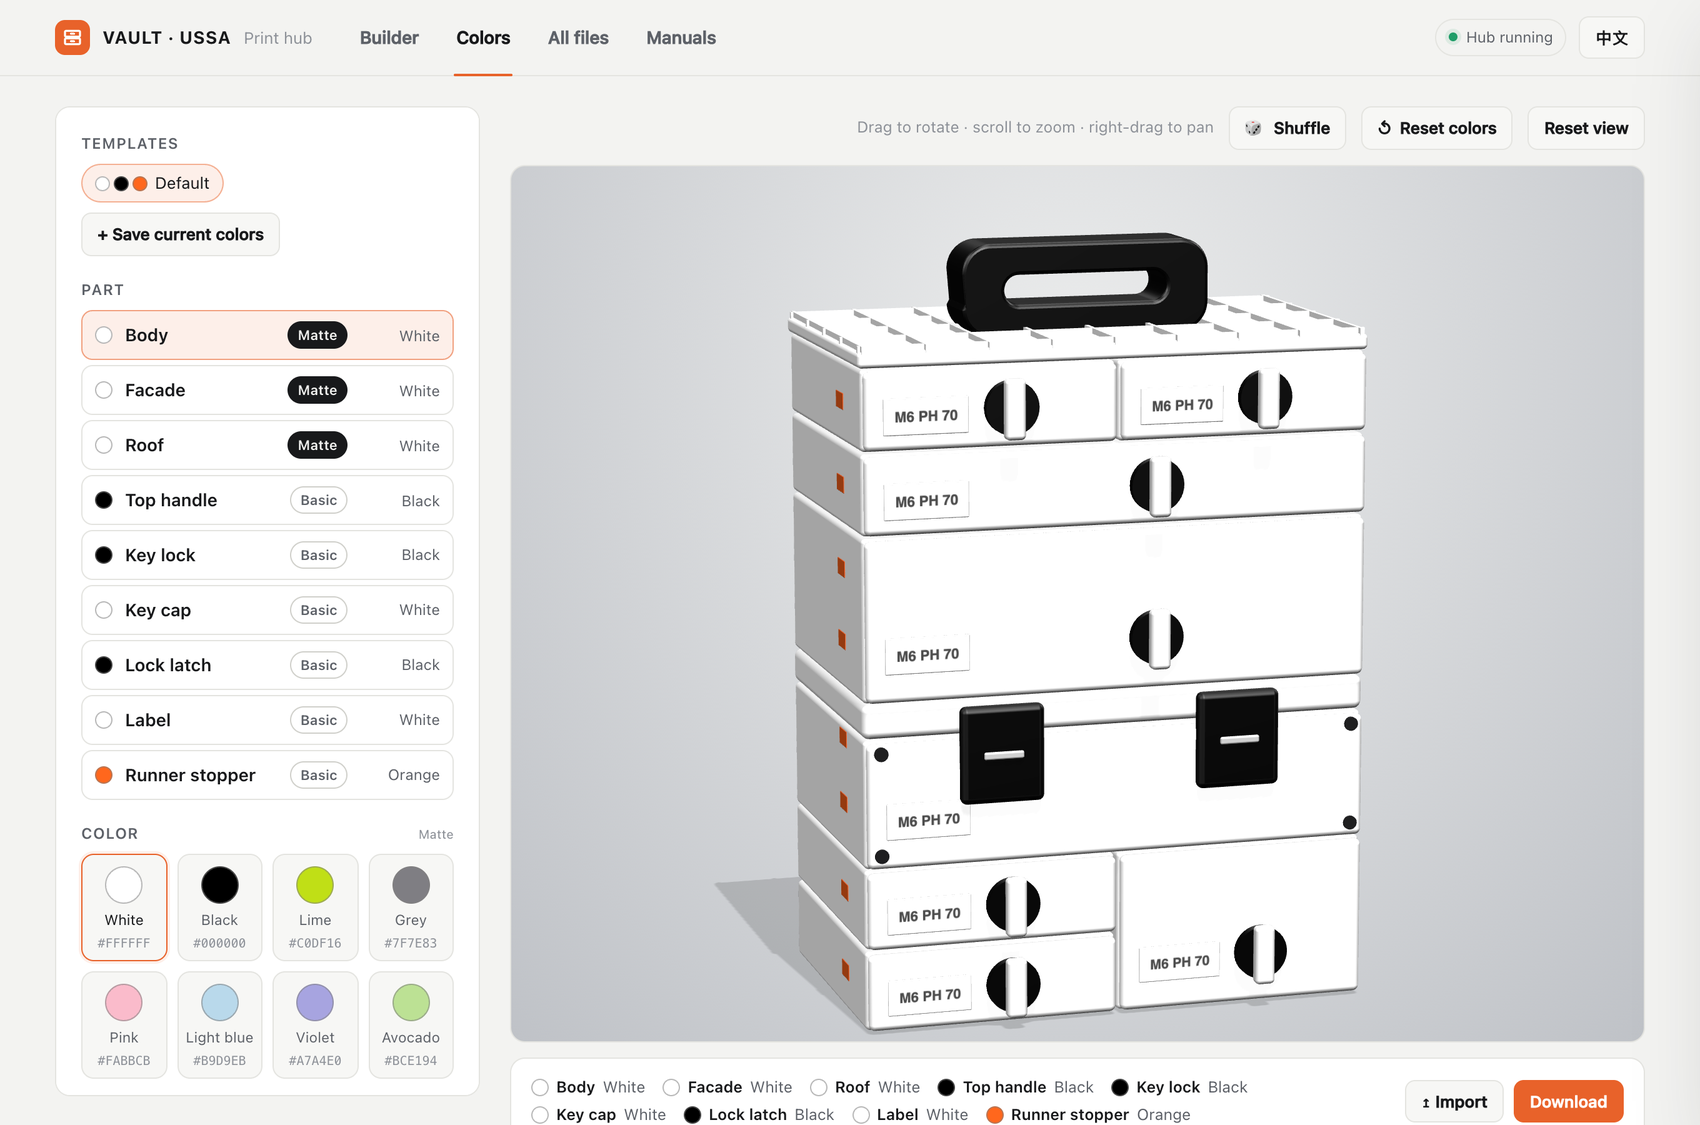
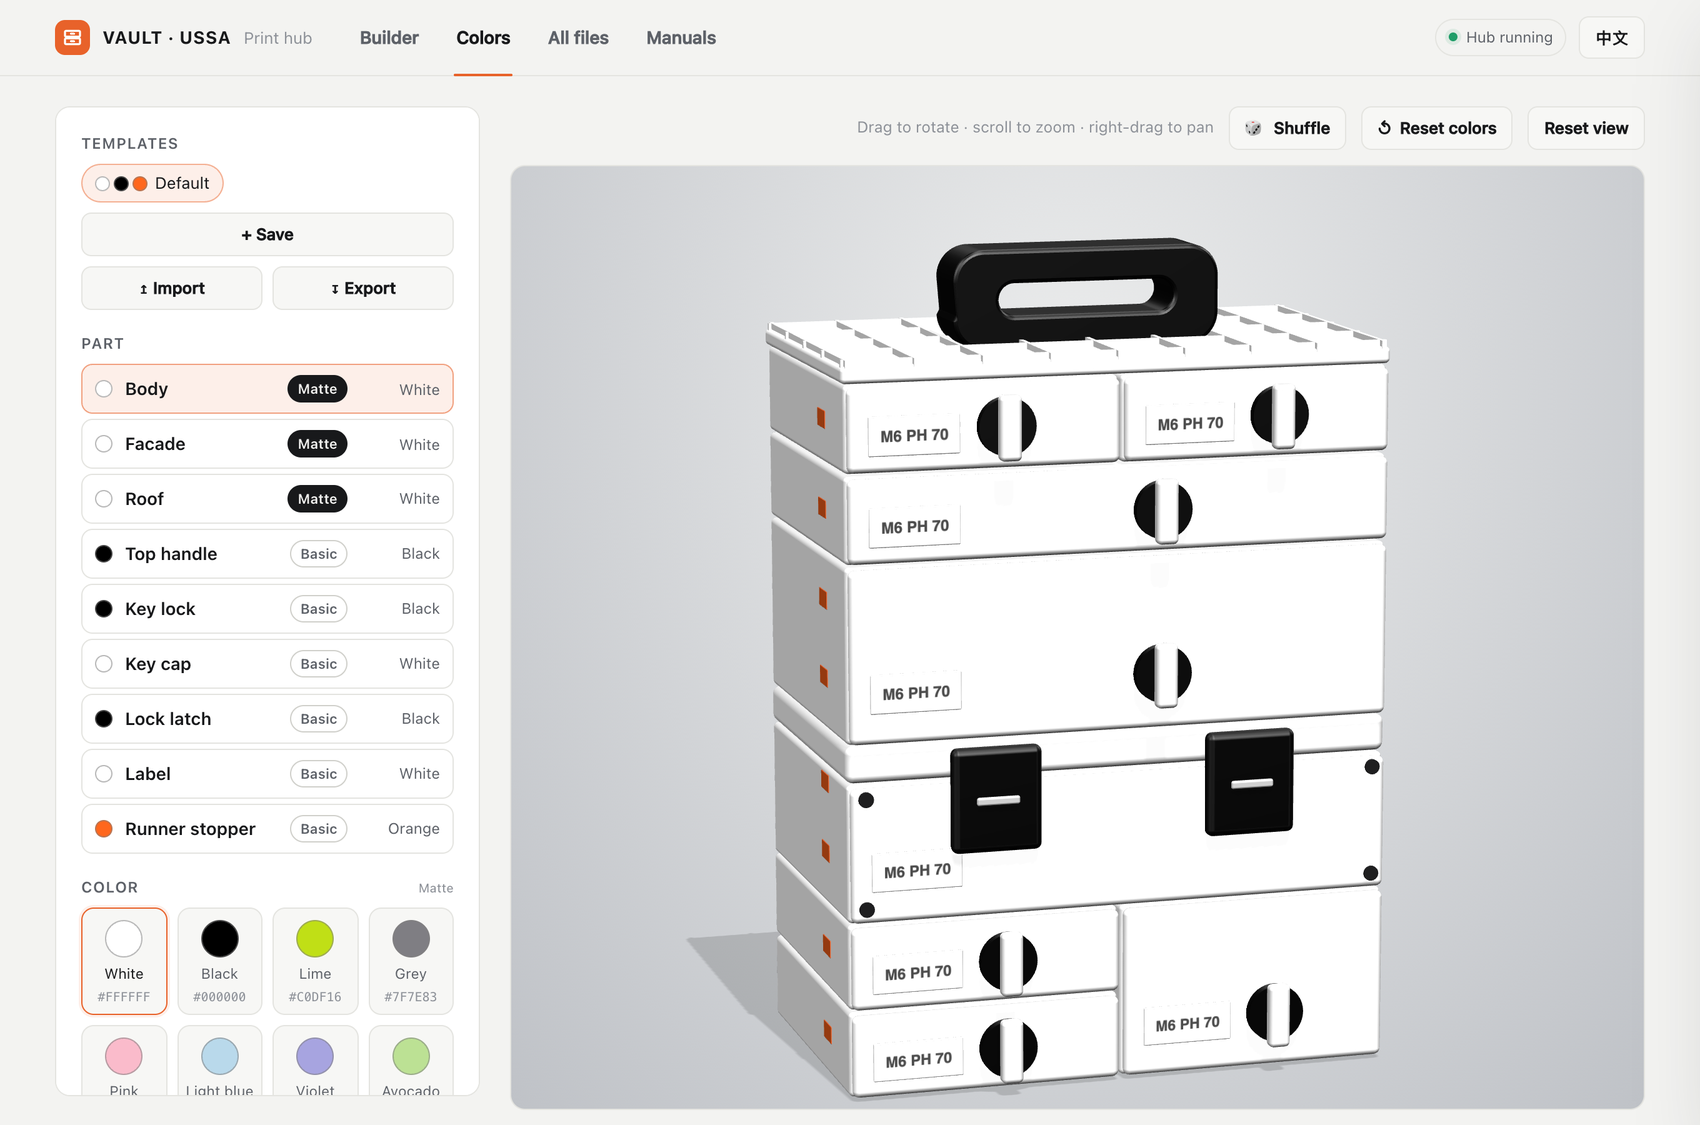
Colors tab: move Save/Import/Export into Templates, remove summary bar; Builder tags show the picked colors; tag order

Changed region(s): [[0.2806, 0.1867, 0.9665, 1.0], [0.0312, 0.2489, 0.2806, 0.9644], [0.0624, 0.1867, 0.1871, 0.2178]]

diff --git a/index.html b/index.html
@@ -242,10 +242,12 @@ button.meta:hover .nm { color: var(--accent); }
 .badge.sup { background: var(--warn-soft); color: var(--warn); }
 .badge.pcs { background: var(--accent-soft); color: var(--accent); }
 .badge.muted { border-color: var(--line); color: var(--faint); }
+.badge.mat { display: inline-flex; align-items: center; gap: 5px; }
+.sw.sm { width: 9px; height: 9px; border-color: rgba(128, 128, 128, .65); }
 .badge.mat.matte { background: var(--text); color: var(--bg); }
 .badge.mat.basic { border-color: var(--line-strong); color: var(--muted); }
 .badge.mat.tpu { border: 1px dashed var(--line-strong); color: var(--muted); }
-.mat-sm { display: none; align-self: flex-start; margin-top: 3px; }
+.badge.mat.mat-sm { display: none; align-self: flex-start; margin-top: 3px; }
 .facts .badge { margin-left: 6px; }
 .qty { font-weight: 700; font-variant-numeric: tabular-nums; text-align: right; }
 .qty.na { color: var(--faint); font-weight: 500; font-size: 12px; }
@@ -365,7 +367,7 @@ button.thumb:hover { border-color: var(--line-strong); }
 .col-bar { display: flex; align-items: center; gap: 12px; flex-wrap: wrap; }
 .col-hint { flex: 1; color: var(--faint); font-size: 12.5px; text-align: right; }
 .col-stage {
-  position: relative; height: min(78vh, 820px); min-height: 420px; overflow: hidden;
+  position: relative; height: min(84vh, 880px); min-height: 420px; overflow: hidden;
   border: 1px solid var(--line); border-radius: var(--radius);
   background: radial-gradient(ellipse at 50% 25%, #eceded, #bfc2c7);
 }
@@ -374,18 +376,13 @@ button.thumb:hover { border-color: var(--line-strong); }
 .col-msg { position: absolute; inset: 0; display: grid; place-items: center; z-index: 3; padding: 24px; text-align: center; color: #2a2d31; font-weight: 600; }
 .col-msg .box { background: rgba(255, 255, 255, .92); border-radius: 12px; padding: 16px 20px; max-width: 420px; font-weight: 500; }
 .col-msg h3 { margin: 0 0 6px; font-size: 15px; }
-.col-sum { background: var(--panel); border: 1px solid var(--line); border-radius: var(--radius); padding: 14px 16px; display: grid; grid-template-columns: minmax(0, 1fr) auto; gap: 12px 16px; align-items: center; }
-.col-sum .acts { display: flex; gap: 8px; }
-.col-sum .picks { display: flex; flex-direction: column; gap: 6px; font-size: 12.5px; color: var(--muted); min-width: 0; }
-.col-sum .pk { display: flex; flex-wrap: wrap; gap: 4px 14px; align-items: center; }
-.col-sum .pk > em { font-style: normal; font-weight: 650; color: var(--text); min-width: 78px; }
-.col-sum .picks span { display: inline-flex; align-items: center; gap: 6px; white-space: nowrap; }
-.col-sum .picks b { color: var(--text); font-weight: 600; }
 .col-tip { position: absolute; left: 0; top: 0; z-index: 4; pointer-events: none; background: rgba(24, 25, 27, .9); color: #fff; font-size: 12px; font-weight: 600; padding: 4px 9px; border-radius: 7px; white-space: nowrap; }
 .col-hint { white-space: nowrap; overflow: hidden; text-overflow: ellipsis; min-width: 0; }
 .tpl { display: flex; flex-wrap: wrap; gap: 6px; margin-bottom: 8px; }
 .tplchip { display: inline-flex; align-items: center; border: 1px solid var(--line); border-radius: 999px; overflow: hidden; }
 .tplchip button { border: 0; background: none; padding: 5px 10px; font-size: 13px; color: var(--muted); }
+.tplact { display: flex; gap: 8px; margin-top: 8px; }
+.tplact .btn { flex: 1; justify-content: center; }
 .tplchip button { display: inline-flex; align-items: center; gap: 6px; }
 .tplchip .dots { display: inline-flex; gap: 3px; }
 .tplchip .sw { width: 12px; height: 12px; }
@@ -417,8 +414,7 @@ button.thumb:hover { border-color: var(--line-strong); }
 @media (max-width: 960px) {
   .colors { grid-template-columns: 1fr; }
   .col-main { order: -1; }
-  .col-sum { grid-template-columns: 1fr; }
-  .builder, .manuals { grid-template-columns: 1fr; }
+    .builder, .manuals { grid-template-columns: 1fr; }
   .config, .doclist { position: static; max-height: none; }
   .brand-sub { display: none; }
 }
@@ -432,7 +428,7 @@ button.thumb:hover { border-color: var(--line-strong); }
   .row, .grp .row { grid-template-columns: 22px 40px minmax(0, 1fr) 36px auto; padding-left: 12px; gap: 8px; }
   .thumb { width: 40px; height: 40px; }
   .row .badges, .row .sz { display: none; }
-  .mat-sm { display: inline-block; }
+  .badge.mat.mat-sm { display: inline-flex; }
   .specs { grid-template-columns: 1fr 1fr; }
   .col-hint { display: none; }
   .col-bar .btn { flex: 1; justify-content: center; }
@@ -490,7 +486,6 @@ button.thumb:hover { border-color: var(--line-strong); }
         <div class="col-stage" id="col-stage">
           <div class="col-msg" id="col-msg" hidden></div>
         </div>
-        <div class="col-sum" id="col-sum"></div>
       </div>
     </div>
   </section>
@@ -578,8 +573,8 @@ const store = {
 const I18N = {
   en: {
     langBtn: '中文', subtitle: 'Print hub', tabBuild: 'Builder', tabFiles: 'All files', tabManuals: 'Manuals', tabColors: 'Colors',
-    colPart: 'Part', colColor: 'Color', colShuffle: 'Shuffle', colReset: 'Reset colors', colTpl: 'Templates', colTplDefault: 'Default', colTplSave: '+ Save current colors', colTplExists: 'That color combination is already saved', colTplSavedPlain: 'Template saved', colTplLoaded: n => `Loaded ${n}`, colTplDel: 'Delete template', colNo3d: 'The 3D view could not start', colAll: n => `Use for all Matte parts`,
-    colDownload: 'Download', colImport: 'Import', colImportDone: n => `Imported ${n} colors`, colImportFail: 'No color picks found in that file',
+    colPart: 'Part', colColor: 'Color', colShuffle: 'Shuffle', colReset: 'Reset colors', colTpl: 'Templates', colTplDefault: 'Default', colTplSave: 'Save', colTplExists: 'That color combination is already saved', colTplSavedPlain: 'Template saved', colTplLoaded: n => `Loaded ${n}`, colTplDel: 'Delete template', colNo3d: 'The 3D view could not start', colAll: n => `Use for all Matte parts`,
+    colDownload: 'Export', colImport: 'Import', colImportDone: n => `Imported ${n} colors`, colImportFail: 'No color picks found in that file',
     colNote: 'On-screen colors are approximate. Check against a physical swatch before printing.',
     role_body: 'Body', role_facade: 'Facade', role_roof: 'Roof', role_handle: 'Top handle', role_label: 'Label', role_stopper: 'Runner stopper', role_key: 'Key lock', role_keycap: 'Key cap', role_hinge: 'Hinge', role_lock: 'Lock latch',
     c_white: 'White', c_black: 'Black', c_lime: 'Lime', c_grey: 'Grey', c_pink: 'Pink', c_lightblue: 'Light blue', c_violet: 'Violet', c_avocado: 'Avocado', c_orange: 'Orange', c_red: 'Red', c_yellow: 'Yellow', c_green: 'Green', c_blue: 'Blue', c_darkblue: 'Dark Blue', c_beige: 'Beige', c_brown: 'Brown', c_bluegrey: 'Blue Grey', c_darkgreen: 'Dark Green',
@@ -618,8 +613,8 @@ const I18N = {
   },
   zh: {
     langBtn: 'English', subtitle: '打印控制台', tabBuild: '配置清单', tabFiles: '全部文件', tabManuals: '说明书', tabColors: '配色',
-    colPart: '零件', colColor: '颜色', colShuffle: '随机配色', colReset: '重置配色', colTpl: '配色模板', colTplDefault: '默认', colTplSave: '+ 保存当前配色', colTplExists: '这个配色组合已经保存过了', colTplSavedPlain: '模板已保存', colTplLoaded: n => `已载入 ${n}`, colTplDel: '删除模板', colNo3d: '无法启动 3D 视图', colAll: n => `所有哑光零件用同一颜色`,
-    colDownload: '下载', colImport: '导入', colImportDone: n => `已导入 ${n} 项配色`, colImportFail: '该文件中没有可识别的配色',
+    colPart: '零件', colColor: '颜色', colShuffle: '随机配色', colReset: '重置配色', colTpl: '配色模板', colTplDefault: '默认', colTplSave: '保存', colTplExists: '这个配色组合已经保存过了', colTplSavedPlain: '模板已保存', colTplLoaded: n => `已载入 ${n}`, colTplDel: '删除模板', colNo3d: '无法启动 3D 视图', colAll: n => `所有哑光零件用同一颜色`,
+    colDownload: '导出', colImport: '导入', colImportDone: n => `已导入 ${n} 项配色`, colImportFail: '该文件中没有可识别的配色',
     colNote: '屏幕上的颜色仅供参考,打印前请对照实物色卡确认。',
     role_body: '主体', role_facade: '前面板', role_roof: '顶盖', role_handle: '顶部提手', role_label: '标签', role_stopper: '止动块', role_key: '旋转锁', role_keycap: '旋钮手柄', role_hinge: '铰链', role_lock: '锁扣',
     c_white: '白色', c_black: '黑色', c_lime: '黄绿色', c_grey: '灰色', c_pink: '粉色', c_lightblue: '浅蓝色', c_violet: '紫罗兰', c_avocado: '牛油果绿', c_orange: '橙色', c_red: '红色', c_yellow: '黄色', c_green: '绿色', c_blue: '蓝色', c_darkblue: '深蓝色', c_beige: '米色', c_brown: '棕色', c_bluegrey: '蓝灰色', c_darkgreen: '深绿色',
@@ -901,14 +896,32 @@ function material(f) {
   if (/Module|Box|Back Panel|Roof|Baseplate|Divider|Facade/i.test(f.name) || /\/Facades?\//.test(f.p)) return 'matte';
   return '';
 }
-const matBadge = (m, cls = '') => m ? `<span class="badge mat ${m}${cls}" title="${esc(t(m + 'Tip'))}">${esc(t(m))}</span>` : '';
+// Which part of the Colors tab a file belongs to, so its Matte / Basic tag can show the color picked there.
+// Matte parts without a role of their own follow the body color; basic parts without a role (runners, springs, hinges...) show no color.
+function colorRole(f) {
+  const m = material(f), n = f.name;
+  if (m === 'matte') return /Facade/i.test(n) || /\/Facades?\//.test(f.p) ? 'facade' : /Roof/i.test(n) ? 'roof' : 'body';
+  if (m !== 'basic') return '';
+  if (/Key Cap/i.test(n)) return 'keycap';
+  if (/Key/i.test(n)) return 'key';
+  if (/Handle/i.test(n)) return 'handle';
+  if (/Label/i.test(n)) return 'label';
+  if (/Runner Stopper/i.test(n)) return 'stopper';
+  if (/LOCK /i.test(n) || /\/Locks\//.test(f.p)) return 'lock';
+  return '';
+}
+const matBadge = (m, cls = '', f = null) => {
+  if (!m) return '';
+  const role = f ? colorRole(f) : '', c = role ? colorOf(role) : null;
+  return `<span class="badge mat ${m}${cls}" title="${esc(t(m + 'Tip') + (c ? ' · ' + colorName(c) : ''))}">${c ? `<i class="sw sm" style="background:${c.hex}"></i>` : ''}${esc(t(m))}</span>`;
+};
 
 function badges(f, item = {}) {
   const b = [];
-  if (item.mat) b.push(matBadge(material(f)));
   if (/turn on supports/i.test(f.name)) b.push(`<span class="badge sup">${t('supports')}</span>`);
   if (item.pcs) b.push(`<span class="badge pcs">${t('pcs', item.pcs)}</span>`);
   if (!isModel(f)) b.push(`<span class="badge muted">${ext(f).toUpperCase()}</span>`);
+  if (item.mat) b.push(matBadge(material(f), '', f));   // the material tag comes last
   return b.join('');
 }
 
@@ -923,7 +936,7 @@ function fileRow(f, item = null) {
   return `<li class="row${done ? ' done' : ''}" data-path="${esc(f.p)}">
     ${canCheck ? `<label class="ck"><input type="checkbox" data-act="check"${done ? ' checked' : ''} aria-label="${esc(t('markPrinted'))}"><span></span></label>` : '<span></span>'}
     ${thumb(f, isModel(f) ? ICON.cube : ICON.eye)}
-    <button class="meta" data-act="open" title="${esc(f.p)}"><span class="nm">${esc(prettyName(f.name))}</span><span class="pt">${esc(f.dir)}</span>${matBadge(material(f), ' mat-sm')}</button>
+    <button class="meta" data-act="open" title="${esc(f.p)}"><span class="nm">${esc(prettyName(f.name))}</span><span class="pt">${esc(f.dir)}</span>${matBadge(material(f), ' mat-sm', f)}</button>
     <span class="badges">${badges(f, { ...item, mat: true })}</span>
     ${item ? qty : ''}
     <span class="sz">${fmtSize(f.s)}</span>
@@ -1127,6 +1140,7 @@ function showTab(name) {
   history.replaceState(null, '', '#' + name);
   $$('.tab').forEach(b => b.setAttribute('aria-selected', String(b.dataset.tab === name)));
   $$('.view').forEach(v => { v.hidden = v.id !== 'view-' + name; });
+  if (name === 'build') renderBuilder();   // the Matte / Basic tags show the colors picked in the Colors tab
   if (name === 'manuals') renderManuals();
   if (name === 'files') renderFiles();
   if (name === 'colors') renderColors();
@@ -1508,7 +1522,7 @@ function renderColors() {
   const role = colorUI.role, finish = ROLE_FINISH[role];
   $('#col-config').innerHTML =
     field(t('colTpl'), `<div class="tpl"><span class="tplchip"><button type="button" data-ctpl="default" aria-pressed="${matchesTemplate({ choice: {} })}">${templateLabel({ choice: {} }, t('colTplDefault'))}</button></span>${templates().map((x, i) =>
-      `<span class="tplchip"><button type="button" data-ctpl="${i}" aria-pressed="${matchesTemplate(x)}">${templateLabel(x, '')}</button><button type="button" class="x" data-ctpl-del="${i}" title="${esc(t('colTplDel'))}" aria-label="${esc(t('colTplDel'))}">×</button></span>`).join('')}</div><button type="button" class="btn" data-cact="save">${esc(t('colTplSave'))}</button>`) +
+      `<span class="tplchip"><button type="button" data-ctpl="${i}" aria-pressed="${matchesTemplate(x)}">${templateLabel(x, '')}</button><button type="button" class="x" data-ctpl-del="${i}" title="${esc(t('colTplDel'))}" aria-label="${esc(t('colTplDel'))}">×</button></span>`).join('')}</div><div class="tplact"><button type="button" class="btn" data-cact="save">+ ${esc(t('colTplSave'))}</button></div><div class="tplact"><button type="button" class="btn" data-cact="import">↥ ${esc(t('colImport'))}</button><button type="button" class="btn" data-cact="download">↧ ${esc(t('colDownload'))}</button></div>`) +
     field(t('colPart'), `<div class="plist">${ROLES.map(r => {
       const c = colorOf(r);
       return `<button type="button" class="prow" data-crole="${r}" aria-pressed="${r === role}"><i class="sw" style="background:${c.hex}"></i><span class="nm">${esc(t('role_' + r))}</span><span class="badge mat ${ROLE_FINISH[r]}">${esc(t(ROLE_FINISH[r]))}</span><span class="cn">${esc(colorName(c))}</span></button>`;
@@ -1517,10 +1531,6 @@ function renderColors() {
       `<button type="button" data-ccolor="${c.id}" aria-pressed="${c.id === colorOf(role).id}"><i class="sw" style="background:${c.hex}"></i>${esc(colorName(c))}<small>${c.hex}</small></button>`).join('')}</div>`, t(finish)) +
     (finish === 'matte' ? `<button type="button" class="btn" data-cact="all">${esc(t('colAll'))}</button>` : '') +
     `<p class="col-note">${esc(t('colNote'))}</p>`;
-  $('#col-sum').innerHTML = `<div class="picks"><div class="pk">${ROLES.map(r => {
-    const c = colorOf(r);
-    return `<span><i class="sw" style="background:${c.hex}"></i><b>${esc(t('role_' + r))}</b> ${esc(colorName(c))}</span>`;
-  }).join('')}</div></div><div class="acts"><button class="btn" data-cact="import"><span>↥ ${esc(t('colImport'))}</span></button> <button class="btn primary" data-cact="download"><span>${esc(t('colDownload'))}</span></button></div>`;
   buildColors();
 }
 

diff --git a/README.md b/README.md
@@ -23,7 +23,7 @@ Pick a unit and the hub lists every file you need, so nothing gets missed.
 - **Options** – lock style, roof for the top unit (none / bowl / grid / table / under-table mount), top handle, dividers, Gridfinity baseplate, locks per unit.
 - **Spec strip** – outer and inside dimensions, Gridfinity grid size, and estimated print time and filament weight (published figures, where available).
 - **Parts list** – grouped into Body, Slides / latch / lock, Hinges & rods, Lock set and Hardware, with a thumbnail, quantity and file size for each part.
-- **Filament finish** – every part is tagged **Matte**, **Basic** or **TPU** (the suggested filament), and the Builder header counts how many of each you need so you can plan filament swaps. The tag is also shown in *All files* and included in *Copy list*. Every STL has a recommendation.
+- **Filament finish** – every part is tagged **Matte**, **Basic** or **TPU** (the suggested filament), and the Builder header counts how many of each you need so you can plan filament swaps. The tag is also shown in *All files* and included in *Copy list*, with a small dot in the color you picked for that part in the Colors tab (parts without a color role, such as runners, show no dot). Every STL has a recommendation.
 - **Smart tags** – "2 pcs in file" marks files that already contain a pair (print once); "Supports" marks files that need support material.
 - **Hardware counts** – bolts and other non-printed parts, with quantities.
 - **Part names** – the official exploded diagram, one click away.
@@ -49,8 +49,8 @@ Try filament colors on a rendered VAULT tower before you print. The tower is a s
 - **Matte palette (8):** White, Black, Lime, Grey, Pink, Light blue, Violet, Avocado. **Basic palette (13):** Orange, Red, Yellow, Green, Blue, Dark Blue, White, Beige, Black, Brown, Grey, Blue Grey, Dark Green. A part gets the palette that matches its finish tag.
 - **Nine colorable parts:** Body, Facade, Roof (Matte); Top handle, Key lock, Key cap, Lock latch, Label, Runner stopper (Basic). Pick a part in the list, or click it in the 3D view (hover shows its name), then pick a color.
 - **🎲 Shuffle** gives every part a random color.
-- **Templates** – *Save current colors* stores the combination as a row of small color circles (one per distinct color, no name needed). Click one to load it, × to delete it (kept in your browser). **Reset colors** puts every part back to its default.
-- **Import / Download** – Download saves your picks as `colors.json`; Import loads such a file (or a template) back in, so picks can be shared or kept with the project. The same file is what the chosen colors will be added to the part labels from later.
+- **Templates** – *Save* stores the combination as a row of small color circles (one per distinct color, no name needed). Click one to load it, × to delete it (kept in your browser). **Reset colors** puts every part back to its default.
+- **Save / Import / Export** – all live in the Templates box. *Export* saves your picks as `colors.json`; *Import* loads such a file (or a template) back in, so picks can be shared or kept with the project. The same file is what the chosen colors will be added to the part labels from later.
 - On-screen colors are approximate. Check a physical swatch before printing.
 
 ### Print checklist
